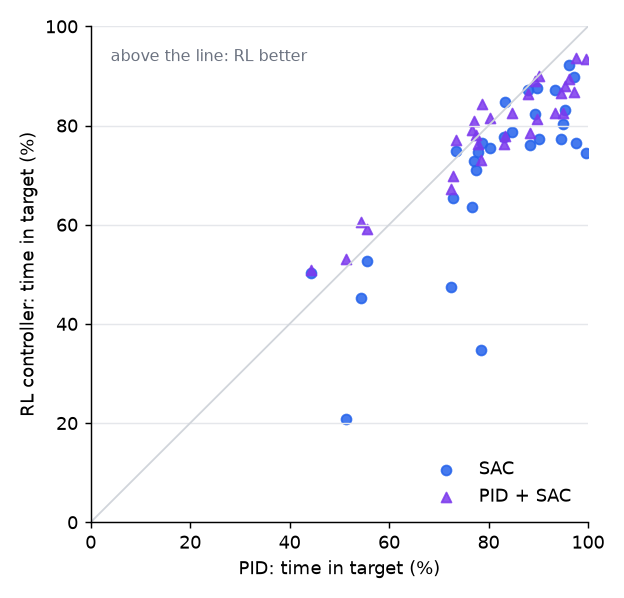
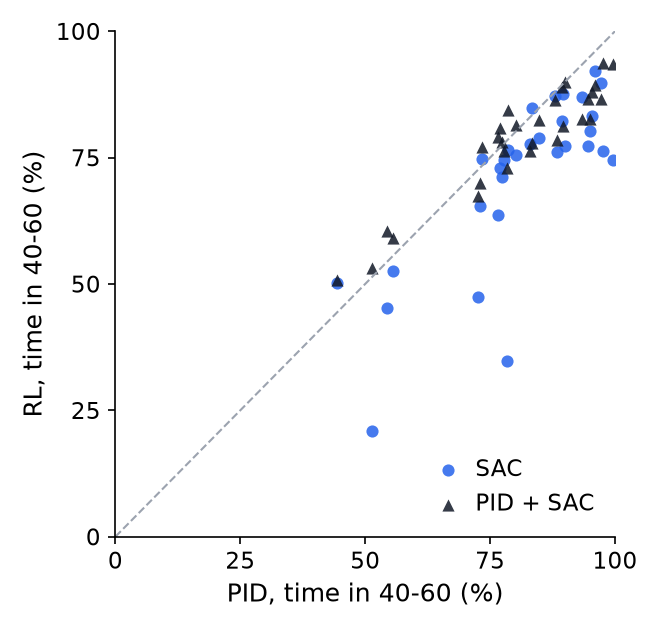
Figures: no gridlines, larger text, show all three controllers in the traces

diff --git a/benchmark.py b/benchmark.py
@@ -85,55 +85,48 @@ def main():
     open('results/benchmark.md', 'w').write('\n'.join(lines) + '\n')
     print('\n'.join(lines))
 
-    figure_learning_curves(res['PID'][0][0]['time_in_target'])
     figure_paired(per_patient)
-    if 'residual' in best:
-        figure_traces(load('residual', f'models/residual_seed{best["residual"]}.zip'))
+    if 'residual' in best and 'sac' in best:
+        figure_traces({'PID': load_pid(),
+                       'SAC': load('sac', f'models/sac_seed{best["sac"]}.zip'),
+                       'PID + SAC': load('residual', f'models/residual_seed{best["residual"]}.zip')})
 
 
 def style(ax):
     for s in ('top', 'right'): ax.spines[s].set_visible(False)
-    ax.grid(axis='y', color='#E5E7EB')
-
-
-def figure_learning_curves(pid_test):
-    fig, ax = plt.subplots(figsize=(7, 3.6), dpi=130)
-    for kind, label in (('sac', 'SAC'), ('residual', 'PID + SAC')):
-        for i, path in enumerate(sorted(glob.glob(f'results/learning_curve_{kind}_seed*.json'))):
-            log = json.load(open(path))
-            ax.plot([r['step'] / 1000 for r in log], [r['time_in_target'] for r in log], color=C[label],
-                    lw=1.6, alpha=0.85, label=label if i == 0 else None)
-    ax.set_xlabel('training steps (thousands)'); ax.set_ylabel('time in target (%)')
-    ax.set_ylim(0, 100); style(ax); ax.legend(frameon=False, loc='lower right')
-    fig.tight_layout(); fig.savefig('media/learning_curves.png'); plt.close(fig)
+    ax.tick_params(labelsize=11)
 
 
 def figure_paired(pp):
-    fig, ax = plt.subplots(figsize=(4.8, 4.6), dpi=130)
-    ax.plot([0, 100], [0, 100], color='#D1D5DB', lw=1)
-    for n in ('SAC', 'PID + SAC'):
+    fig, ax = plt.subplots(figsize=(4.4, 4.2), dpi=150)
+    ax.plot([0, 100], [0, 100], color='#9CA3AF', lw=1, ls='--')
+    for n, mk in (('SAC', 'o'), ('PID + SAC', '^')):
         if n in pp:
-            ax.scatter(pp['PID'], pp[n], s=30, color=C[n], alpha=0.85, label=n,
-                       marker='o' if n == 'SAC' else '^')
-    ax.set_xlabel('PID: time in target (%)'); ax.set_ylabel('RL controller: time in target (%)')
-    ax.text(4, 93, 'above the line: RL better', color=MUTED, fontsize=9)
-    ax.set_xlim(0, 100); ax.set_ylim(0, 100); style(ax); ax.legend(frameon=False, loc='lower right')
+            ax.scatter(pp['PID'], pp[n], s=34, color=C[n], alpha=0.85, label=n, marker=mk, lw=0)
+    ax.set_xlabel('PID, time in 40-60 (%)', fontsize=12)
+    ax.set_ylabel('RL, time in 40-60 (%)', fontsize=12)
+    ax.set_xticks([0, 25, 50, 75, 100]); ax.set_yticks([0, 25, 50, 75, 100])
+    ax.set_xlim(0, 100); ax.set_ylim(0, 100); style(ax)
+    ax.legend(frameon=False, loc='lower right', fontsize=11, handletextpad=0.2)
     fig.tight_layout(); fig.savefig('media/paired_patients.png'); plt.close(fig)
 
 
-def figure_traces(model, idx=(0, 3, 8, 11, 19, 26)):
-    pats = test_patients(30); pid = load_pid()
+def figure_traces(models, idx=(0, 3, 8, 11, 19, 26)):
+    pats = test_patients(30)
     fig, axes = plt.subplots(2, 3, figsize=(12, 5.6), dpi=120, sharex=True, sharey=True)
     for ax, i in zip(axes.flat, idx):
-        for ctrl, c, lab in ((pid, C['PID'], 'PID'), (model, C['PID + SAC'], 'PID + SAC')):
+        for lab, ctrl in models.items():
             tr = run_episode(ctrl, pats[i], TEST_NOISE_OFFSET + i)
-            ax.plot([s['time_min'] for s in tr], [s['bis'] for s in tr], color=c, lw=1.5, label=lab)
+            ax.plot([s['time_min'] for s in tr], [s['bis'] for s in tr], color=C[lab], lw=1.4, label=lab)
         ax.axhspan(40, 60, color=C_TARGET, alpha=0.1, lw=0)
-        ax.text(0.98, 0.97, describe(pats[i]), transform=ax.transAxes, fontsize=10, va='top', ha='right'); ax.set_ylim(0, 100); style(ax)
-    axes[0, 0].legend(frameon=False, loc='lower right')
-    for ax in axes[:, 0]: ax.set_ylabel('BIS')
-    for ax in axes[1]: ax.set_xlabel('time (min)')
-    fig.tight_layout(); fig.savefig('media/test_traces.png'); plt.close(fig)
+        ax.text(0.98, 0.97, describe(pats[i]), transform=ax.transAxes, fontsize=11, va='top', ha='right')
+        ax.set_ylim(0, 100); ax.set_xlim(0, 40); ax.set_xticks([0, 10, 20, 30, 40]); style(ax)
+    for ax in axes[:, 0]: ax.set_ylabel('BIS', fontsize=12)
+    for ax in axes[1]: ax.set_xlabel('Time (min)', fontsize=12)
+    fig.tight_layout(rect=(0, 0, 1, 0.94))
+    h, l = axes[0, 0].get_legend_handles_labels()
+    fig.legend(h, l, loc='upper center', ncol=3, frameon=False, fontsize=12)
+    fig.savefig('media/test_traces.png'); plt.close(fig)
 
 
 if __name__ == '__main__':

diff --git a/style.py b/style.py
@@ -3,6 +3,6 @@
 COLORS = {
     'PID': '#EA580C',        # orange
     'SAC': '#2563EB',        # blue
-    'PID + SAC': '#7C3AED',  # purple
+    'PID + SAC': '#111827',  # near-black
 }
 TARGET = '#16A34A'

diff --git a/README.md b/README.md
@@ -31,13 +31,13 @@ The PID gives an age-adjusted bolus (2.0 mg/kg, or 1.5 mg/kg from age 55), then 
 
 MDPE, MDAPE and wobble are the bias, inaccuracy and variability measures from Varvel et al. (1992).
 
-<img src="media/paired_patients.png" width="45%">
+<img src="media/paired_patients.png" width="42%">
 
 *Time in range per test patient. Points above the diagonal are patients where the RL controller beat the PID: 3 of 30 for SAC, 9 of 30 for PID + SAC.*
 
 ![BIS traces on six test patients](media/test_traces.png)
 
-*Six test patients, PID vs PID + SAC. Shaded band: 40 to 60.*
+*Six test patients, shaded band 40 to 60. In the three patients over 70, SAC waits about 3 min before dosing. In the two younger women it settles below 40 for much of the case. The 20-year-old stays above 60 for the first 17 min whatever the controller does.*
 
 ## What went wrong
 
@@ -45,7 +45,7 @@ MDPE, MDAPE and wobble are the bias, inaccuracy and variability measures from Va
 
 **Residual SAC made the PID worse.** It starts as the PID and only has to learn small corrections, but its corrections lowered its own training reward compared with applying none. My explanation is credit assignment: a dose change reaches the measured BIS 30 to 60 s later, and the PID underneath partly cancels each correction.
 
-**Induction is the weak point for everyone.** Even with the age adjustment, the PID's bolus takes 7 of 30 test patients below BIS 20. The opposite also happens: the 20-year-old test patient (bottom right above) sits above 60 for 20 min with the infusion at its 20 mg/kg/h cap for most of that time.
+**Induction is the weak point for everyone.** Even with the age adjustment, the PID's bolus takes 7 of 30 test patients below BIS 20. The opposite also happens: the 20-year-old (bottom right) sits above 60 for 20 min under the PID, with the infusion at its 20 mg/kg/h cap for most of that time.
 
 ## Next
 
